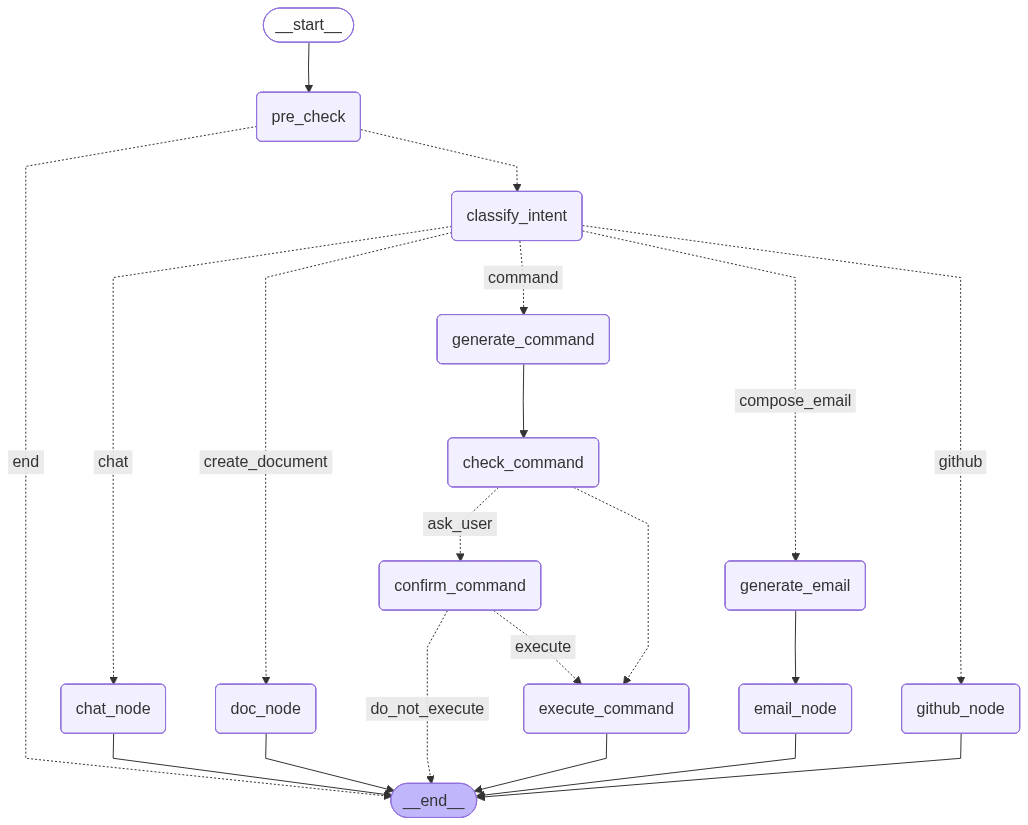
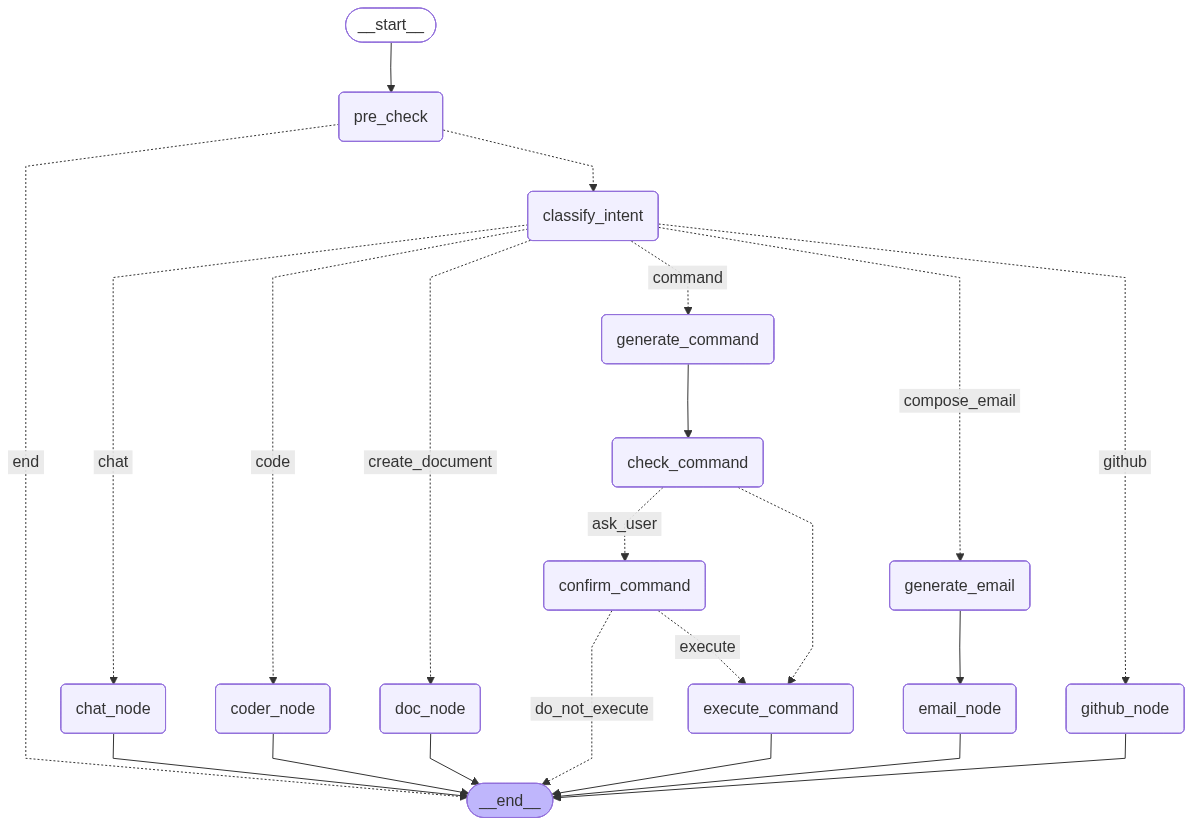
Add coder node architecture and related updates

diff --git a/README.md b/README.md
@@ -157,6 +157,9 @@ Termagent is built on **[LangGraph](https://github.com/langchain-ai/langgraph)**
 
 ![demo-image](assets/graph.png)
 
+### Coder Node Architecture
+![demo-image](assets/coder_node_graph.png)
+
 ### Node Descriptions
 
 | Node | Purpose |
